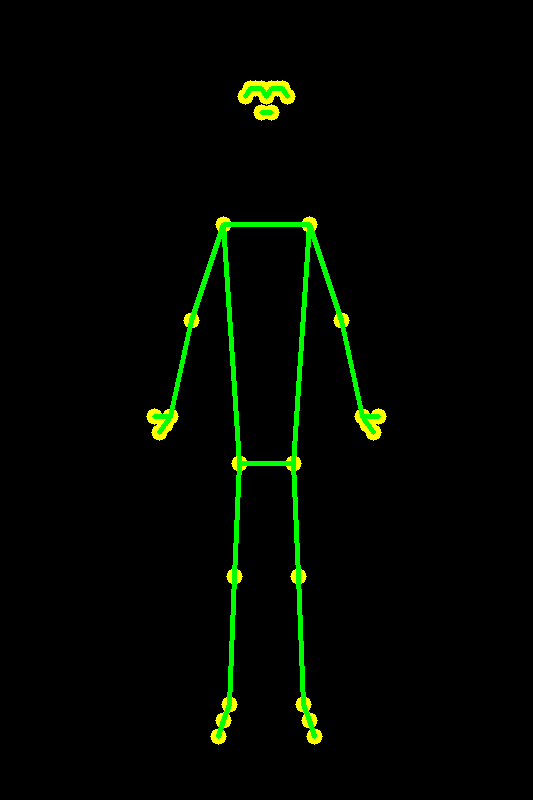
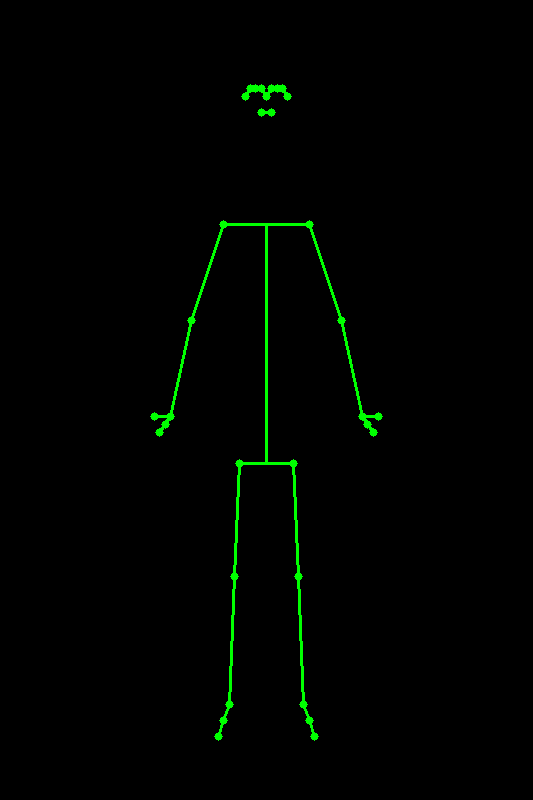
feat: added vid_processing
Now the code written for openpose/mediapipe simply need to call the functions from the img, vid processing codes. Will continue working on improving how the stick figure looks.

diff --git a/projekt/vid_processing.py b/projekt/vid_processing.py
@@ -1,0 +1,223 @@
+import cv2
+import numpy as np
+import os
+
+POSE_PAIRS = [
+    [0, 1],   [1, 2],   [2, 3],   [3, 7],
+    [0, 4],   [4, 5],   [5, 6],   [6, 8],
+    [9, 10],
+    [11, 12],
+    [11, 13], [13, 15],
+    [12, 14], [14, 16],
+    [15, 17], [15, 19], [15, 21],
+    [16, 18], [16, 20], [16, 22],
+    [23, 24],
+    [23, 25], [25, 27],
+    [24, 26], [26, 28],
+    [27, 29], [29, 31],
+    [28, 30], [30, 32],
+]
+
+PERSON_COLORS = [
+    (0, 255, 0),
+    (255, 0, 0),
+    (0, 0, 255),
+    (255, 255, 0),
+    (255, 0, 255),
+    (0, 255, 255),
+    (128, 0, 255),
+    (255, 128, 0),
+    (0, 255, 128),
+    (128, 255, 0),
+]
+
+class FakeLandmark:
+    def __init__(self, x, y):
+        self.x = x
+        self.y = y
+
+def split_video_to_frames(video_path):
+
+    cap = cv2.VideoCapture(video_path)
+    if not cap.isOpened():
+        print(f"Error: Cannot open video: {video_path}")
+        return [], 0
+
+    fps = int(cap.get(cv2.CAP_PROP_FPS))
+    total_frames = int(cap.get(cv2.CAP_PROP_FRAME_COUNT))
+    frames = []
+
+    frame_num = 0
+    while True:
+        ret, frame = cap.read()
+        if not ret:
+            break
+        frame_num += 1
+        frames.append(frame)
+
+    cap.release()
+    print(f"Extracted {frame_num}/{total_frames} frames at {fps} FPS")
+    return frames, fps
+
+def preprocess_frame(frame, max_dim=800):
+
+    original_h, original_w = frame.shape[:2]
+
+    # 1. Resizing
+    if max(original_h, original_w) > max_dim:
+        scale = max_dim / max(original_h, original_w)
+        frame = cv2.resize(frame, None, fx=scale, fy=scale, interpolation=cv2.INTER_AREA)
+
+    # 2. Noise Reduction (gaussian blur)
+    frame_processed = cv2.GaussianBlur(frame, (5, 5), 0)
+
+    # 3. Improved Contrast with CLAHE
+    # (Uncomment this block to enable CLAHE)
+    # lab = cv2.cvtColor(frame_processed, cv2.COLOR_BGR2LAB)
+    # l, a, b = cv2.split(lab)
+    # clahe = cv2.createCLAHE(clipLimit=2.0, tileGridSize=(8, 8))
+    # l = clahe.apply(l)
+    # lab = cv2.merge([l, a, b])
+    # frame_processed = cv2.cvtColor(lab, cv2.COLOR_LAB2BGR)
+    
+    return frame_processed, frame
+
+def draw_stick_figure(frame_processed, landmarks, color=(0, 255, 0), canvas=None):
+
+    image_h, image_w = frame_processed.shape[:2]
+
+    if canvas is None:
+        canvas = np.zeros((image_h, image_w, 3), dtype=np.uint8)
+
+    pixel_points = []
+    for landmark in landmarks:
+        pixel_x = int(landmark.x * image_w)
+        pixel_y = int(landmark.y * image_h)
+        pixel_points.append((pixel_x, pixel_y))
+
+    for pair in POSE_PAIRS:
+        idx_a, idx_b = pair
+        if idx_a < len(pixel_points) and idx_b < len(pixel_points):
+            if pixel_points[idx_a] is not None and pixel_points[idx_b] is not None:
+                cv2.line(canvas, pixel_points[idx_a], pixel_points[idx_b], color, 2)
+
+    if len(pixel_points) >= 25:
+        mid_shoulder = (
+            (pixel_points[11][0] + pixel_points[12][0]) // 2,
+            (pixel_points[11][1] + pixel_points[12][1]) // 2
+        )
+        mid_hip = (
+            (pixel_points[23][0] + pixel_points[24][0]) // 2,
+            (pixel_points[23][1] + pixel_points[24][1]) // 2
+        )
+        cv2.line(canvas, mid_shoulder, mid_hip, color, 2)
+
+    for point in pixel_points:
+        cv2.circle(canvas, point, 4, color, -1)
+
+    comparison = np.hstack([frame_processed, canvas])
+
+    return canvas, comparison
+
+def process_video(video_path, output_path, get_landmarks_func=None):
+
+    cap = cv2.VideoCapture(video_path)
+    if not cap.isOpened():
+        print(f"Error: Cannot open video: {video_path}")
+        return
+
+    # Get video properties
+    fps = int(cap.get(cv2.CAP_PROP_FPS))
+    width = int(cap.get(cv2.CAP_PROP_FRAME_WIDTH))
+    height = int(cap.get(cv2.CAP_PROP_FRAME_HEIGHT))
+    total_frames = int(cap.get(cv2.CAP_PROP_FRAME_COUNT))
+
+    # Preprocess one frame to figure out the output dimensions
+    ret, first_frame = cap.read()
+    if not ret:
+        print("Error: Cannot read first frame")
+        cap.release()
+        return
+    test_processed, _ = preprocess_frame(first_frame)
+    out_h, out_w = test_processed.shape[:2]
+
+    # Reset video back to the beginning
+    cap.set(cv2.CAP_PROP_POS_FRAMES, 0)
+
+    # Set up video writer
+    fourcc = cv2.VideoWriter_fourcc(*'mp4v')
+    out = cv2.VideoWriter(output_path, fourcc, fps, (out_w, out_h))
+
+    frame_num = 0
+    while True:
+        ret, frame = cap.read()
+        if not ret:
+            break
+
+        frame_num += 1
+        print(f"Processing frame {frame_num}/{total_frames}...")
+
+        # Preprocess this frame
+        processed, _ = preprocess_frame(frame)
+
+        # Get landmarks for this frame
+        if get_landmarks_func is not None:
+            landmarks = get_landmarks_func(processed)
+        else:
+            landmarks = generate_dummy_landmarks()
+
+        # Draw stick figure
+        canvas, _ = draw_stick_figure(processed, landmarks)
+
+        # Write the stick figure frame to output video
+        out.write(canvas)
+
+    cap.release()
+    out.release()
+    print(f"Video saved to: {output_path}")
+
+def generate_dummy_landmarks():
+    return [
+        FakeLandmark(0.50, 0.12),  # 0  nose
+        FakeLandmark(0.51, 0.11),  # 1  left eye inner
+        FakeLandmark(0.52, 0.11),  # 2  left eye
+        FakeLandmark(0.53, 0.11),  # 3  left eye outer
+        FakeLandmark(0.49, 0.11),  # 4  right eye inner
+        FakeLandmark(0.48, 0.11),  # 5  right eye
+        FakeLandmark(0.47, 0.11),  # 6  right eye outer
+        FakeLandmark(0.54, 0.12),  # 7  left ear
+        FakeLandmark(0.46, 0.12),  # 8  right ear
+        FakeLandmark(0.51, 0.14),  # 9  mouth left
+        FakeLandmark(0.49, 0.14),  # 10 mouth right
+        FakeLandmark(0.58, 0.28),  # 11 left shoulder
+        FakeLandmark(0.42, 0.28),  # 12 right shoulder
+        FakeLandmark(0.64, 0.40),  # 13 left elbow
+        FakeLandmark(0.36, 0.40),  # 14 right elbow
+        FakeLandmark(0.68, 0.52),  # 15 left wrist
+        FakeLandmark(0.32, 0.52),  # 16 right wrist
+        FakeLandmark(0.70, 0.54),  # 17 left pinky
+        FakeLandmark(0.30, 0.54),  # 18 right pinky
+        FakeLandmark(0.69, 0.53),  # 19 left index
+        FakeLandmark(0.31, 0.53),  # 20 right index
+        FakeLandmark(0.71, 0.52),  # 21 left thumb
+        FakeLandmark(0.29, 0.52),  # 22 right thumb
+        FakeLandmark(0.55, 0.58),  # 23 left hip
+        FakeLandmark(0.45, 0.58),  # 24 right hip
+        FakeLandmark(0.56, 0.72),  # 25 left knee
+        FakeLandmark(0.44, 0.72),  # 26 right knee
+        FakeLandmark(0.57, 0.88),  # 27 left ankle
+        FakeLandmark(0.43, 0.88),  # 28 right ankle
+        FakeLandmark(0.58, 0.90),  # 29 left heel
+        FakeLandmark(0.42, 0.90),  # 30 right heel
+        FakeLandmark(0.59, 0.92),  # 31 left foot index
+        FakeLandmark(0.41, 0.92),  # 32 right foot index
+    ]
+
+
+if __name__ == "__main__":
+
+    script_dir = os.path.dirname(os.path.abspath(__file__))
+    test_vid_path = os.path.join(script_dir, 'datasets', 'test_video.mp4')
+    out_path = os.path.join(script_dir, 'datasets', 'stick_figure_output.mp4')
+
+    process_video(test_vid_path, out_path)

diff --git a/projekt/img_processing.py b/projekt/img_processing.py
@@ -2,22 +2,33 @@ import cv2
 import numpy as np
 import os
 
-# MediaPipe Pose has 33 landmarks. These pairs define which joints to connect.
 POSE_PAIRS = [
-    [0, 1],   [1, 2],   [2, 3],   [3, 7],   
-    [0, 4],   [4, 5],   [5, 6],   [6, 8],    
-    [9, 10],                                   
-    [11, 12],                                  
-    [11, 13], [13, 15],                        
-    [12, 14], [14, 16],                        
-    [15, 17], [15, 19], [15, 21],              
-    [16, 18], [16, 20], [16, 22],              
-    [11, 23], [12, 24],                        
-    [23, 24],                                  
-    [23, 25], [25, 27],                        
-    [24, 26], [26, 28],                        
-    [27, 29], [29, 31],                        
-    [28, 30], [30, 32],                       
+    [0, 1],   [1, 2],   [2, 3],   [3, 7],
+    [0, 4],   [4, 5],   [5, 6],   [6, 8],
+    [9, 10],
+    [11, 12],
+    [11, 13], [13, 15],
+    [12, 14], [14, 16],
+    [15, 17], [15, 19], [15, 21],
+    [16, 18], [16, 20], [16, 22],
+    [23, 24],
+    [23, 25], [25, 27],
+    [24, 26], [26, 28],
+    [27, 29], [29, 31],
+    [28, 30], [30, 32],
+]
+
+PERSON_COLORS = [
+    (0, 255, 0),
+    (255, 0, 0),
+    (0, 0, 255),
+    (255, 255, 0),
+    (255, 0, 255),
+    (0, 255, 255),
+    (128, 0, 255),
+    (255, 128, 0),
+    (0, 255, 128),
+    (128, 255, 0),
 ]
 
 class FakeLandmark:
@@ -51,33 +62,41 @@ def preprocess_image(img_path, max_dim=800):
     
     return img_processed, img
 
-def draw_stick_figure(img_processed, landmarks):
+def draw_stick_figure(img_processed, landmarks, color=(0, 255, 0), canvas=None):
 
     image_h, image_w = img_processed.shape[:2]
 
-    # Create a blank black canvas, same size as the processed image
-    canvas = np.zeros((image_h, image_w, 3), dtype=np.uint8)
+    if canvas is None:
+        canvas = np.zeros((image_h, image_w, 3), dtype=np.uint8)
 
-    # Calculate exact pixel coordinates from the normalized MediaPipe points
     pixel_points = []
     for landmark in landmarks:
         pixel_x = int(landmark.x * image_w)
         pixel_y = int(landmark.y * image_h)
         pixel_points.append((pixel_x, pixel_y))
 
-    # Draw the joints 
-    for point in pixel_points:
-        cv2.circle(canvas, point, 8, (0, 255, 255), -1)
-
-    # Draw the bones
     for pair in POSE_PAIRS:
         idx_a, idx_b = pair
         if idx_a < len(pixel_points) and idx_b < len(pixel_points):
             if pixel_points[idx_a] is not None and pixel_points[idx_b] is not None:
-                cv2.line(canvas, pixel_points[idx_a], pixel_points[idx_b], (0, 255, 0), 3)
+                cv2.line(canvas, pixel_points[idx_a], pixel_points[idx_b], color, 2)
+
+    if len(pixel_points) >= 25:
+        mid_shoulder = (
+            (pixel_points[11][0] + pixel_points[12][0]) // 2,
+            (pixel_points[11][1] + pixel_points[12][1]) // 2
+        )
+        mid_hip = (
+            (pixel_points[23][0] + pixel_points[24][0]) // 2,
+            (pixel_points[23][1] + pixel_points[24][1]) // 2
+        )
+        cv2.line(canvas, mid_shoulder, mid_hip, color, 2)
+
+    for point in pixel_points:
+        cv2.circle(canvas, point, 4, color, -1)
 
     comparison = np.hstack([img_processed, canvas])
-    
+
     return canvas, comparison
 
 def save_and_display(canvas, comparison, output_path):
